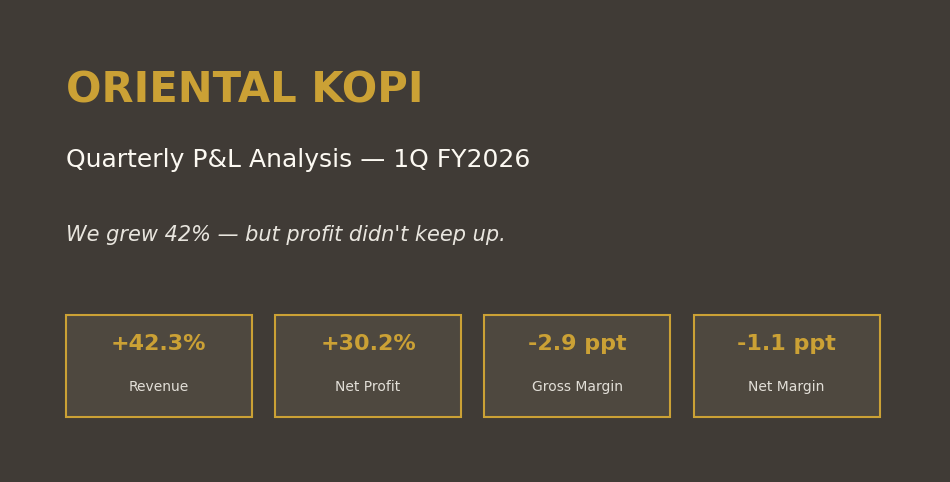
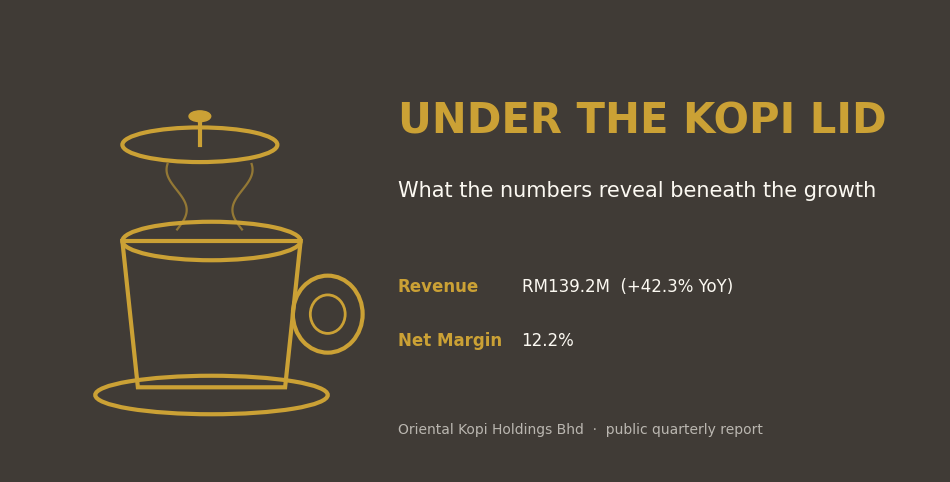
Reframe Oriental Kopi case study to discovery mode; feature on homepage
- Rewrite as neutral discovery story (Under the Kopi Lid): reveal what
  the numbers show, hold interpretation open, no judgment or advice
- Replace recommendations with neutral 'questions the numbers raise'
- New lifting-the-lid cover; retitle across page, homepage card+hero,
  category, search DB, and dashboard index
- Feature on homepage (replaces Where the Money Is) + hero image

diff --git a/case-studies/oriental-kopi-pl-analysis.html b/case-studies/oriental-kopi-pl-analysis.html
@@ -4,7 +4,7 @@
   <meta charset="utf-8"/>
   <meta content="width=device-width, initial-scale=1.0" name="viewport"/>
   <title>
-   Oriental Kopi — Quarterly P&amp;L Analysis | Lee Yih Ven
+   Under the Kopi Lid | Lee Yih Ven
   </title>
   <link href="/data-analyst-portfolio/style.css" rel="stylesheet"/>
  </head>
@@ -69,105 +69,107 @@
      <header>
       <img alt="Cover Image" src="https://raw.githubusercontent.com/lyven81/data-analyst-portfolio/main/images/oriental-kopi-pl-analysis/cover%20image.png"/>
       <h1>
-       Oriental Kopi: We Grew 42% — But Profit Didn't Keep Up
+       Under the Kopi Lid
       </h1>
       <p>
-       A management read of 1Q FY2026 — strong top-line growth, but margins compressed across the board, and the cause is one line on the P&amp;L.
+       What the numbers reveal beneath the growth — a closer look at Oriental Kopi's 1Q FY2026 quarterly results.
       </p>
      </header>
 
      <section>
       <h2>
-       The Bottom Line
+       What We Found
       </h2>
       <p>
-       Oriental Kopi's 1Q FY2026 was a strong growth quarter — revenue up 42% and net profit up 30% — but profit quality slipped: every margin tier compressed, driven mainly by cost of sales rising from 74% to 77% of revenue. Growth is healthy. Defending margin is now the priority.
+       Oriental Kopi grew revenue 42% in 1Q FY2026. Lift the lid on the statement, though, and a second pattern sits beneath the headline: profit grew more slowly than revenue, and margins narrowed at every level. This case study walks through where, in the numbers, that happened — and leaves the why to those who know the business.
       </p>
      </section>
 
      <section>
       <h2>
-       The Question: Did 42% growth make us more profitable?
+       What's Behind the 42%?
       </h2>
       <p>
-       Oriental Kopi Holdings Bhd — a Malaysian kopitiam café chain and packaged-food distributor listed on Bursa Malaysia — posted headline revenue growth of 42% in 1Q FY2026. For management, the headline number isn't the question. The question is sharper: did that growth convert into profit, or did we buy revenue at the expense of margin?
+       Oriental Kopi Holdings Bhd is a Malaysian kopitiam café chain and packaged-food distributor listed on Bursa Malaysia. Its 1Q FY2026 report leads with a 42% jump in revenue. That number is the headline; this analysis is about what sits underneath it.
       </p>
       <p>
-       This analysis reads the quarterly P&amp;L the way a finance team would — vertical analysis (each line as a share of revenue), horizontal analysis (year-on-year), and a segment breakdown — to answer it.
+       Reading the quarterly P&amp;L three ways — each line as a share of revenue, each line against a year ago, and the picture by business segment — surfaces a pattern the headline alone doesn't show. The aim here isn't to grade the quarter, only to make what's under the lid visible.
       </p>
      </section>
 
      <section>
       <h2>
-       1. The Result: growth outpaced profit
+       1. The Result: growth, at two speeds
       </h2>
       <img alt="Chart 1 - Revenue Growth vs Profit Growth" src="https://raw.githubusercontent.com/lyven81/data-analyst-portfolio/main/images/oriental-kopi-pl-analysis/chart%201.png"/>
       <p>
-       Revenue rose 42.3% (RM97.8M to RM139.2M) and profit after tax rose 30.2% (RM13.1M to RM17.0M). Both up strongly — but the 12-point gap between revenue growth and profit growth is the first signal that something happened to margin on the way down the statement.
+       Revenue rose 42.3% (RM97.8M to RM139.2M). Profit after tax rose too, but by less — 30.2% (RM13.1M to RM17.0M). Both moved up; they didn't move together. The 12-point gap between the two growth rates is the first thread to pull.
       </p>
      </section>
 
      <section>
       <h2>
-       2. The Quality Check: every margin compressed
+       2. The Margins: a shift at every level
       </h2>
       <img alt="Chart 2 - Margins FY25 vs FY26" src="https://raw.githubusercontent.com/lyven81/data-analyst-portfolio/main/images/oriental-kopi-pl-analysis/chart%202.png"/>
       <p>
-       It wasn't one line — profitability fell at every level of the P&amp;L. Gross margin slipped from 25.9% to 23.0% (−2.9 ppt), operating margin from 18.6% to 17.1% (−1.6 ppt), and net margin from 13.4% to 12.2% (−1.1 ppt).
+       Follow that thread to the margins and the same gap appears at every level of the statement. Gross margin moved from 25.9% to 23.0%, operating margin from 18.6% to 17.1%, and net margin from 13.4% to 12.2%.
       </p>
       <p>
-       Because the compression starts at the gross line and carries all the way down, the root cause sits at the top of the statement — not in financing or tax.
+       The narrowing isn't isolated to one line near the bottom — it begins at the gross line and carries all the way down, which points to where in the statement the change starts.
       </p>
      </section>
 
      <section>
       <h2>
-       3. The Cause: cost of sales is the leak
+       3. Where the Margin Moved
       </h2>
       <img alt="Chart 3 - Cost of Sales as % of Revenue" src="https://raw.githubusercontent.com/lyven81/data-analyst-portfolio/main/images/oriental-kopi-pl-analysis/chart%203.png"/>
       <p>
-       Vertical analysis pinpoints it: cost of sales rose from 74.1% to 77.0% of revenue — it grew faster (+47.8%) than revenue did (+42.3%). That single 2.9-point shift is the largest driver of the margin squeeze, and it explains almost the entire drop in gross margin.
+       Vertical analysis shows where it begins. Cost of sales took 74.1% of every revenue ringgit a year ago; this quarter it took 77.0%. It grew 47.8% while revenue grew 42.3%. That single shift accounts for almost the entire move in gross margin.
       </p>
       <p>
-       Operating expenses stayed broadly in line as a share of revenue, so this is a cost-of-goods story, not an overhead story.
+       Operating expenses, by contrast, held roughly steady as a share of revenue. So the change sits in cost of goods, not in overhead.
       </p>
      </section>
 
      <section>
       <h2>
-       4. The Shape of Growth: the mix is shifting
+       4. The Segments: where growth came from
       </h2>
       <img alt="Chart 4 - Segment Growth vs Margin Change" src="https://raw.githubusercontent.com/lyven81/data-analyst-portfolio/main/images/oriental-kopi-pl-analysis/chart%204.png"/>
       <p>
-       The Cafe Chain is still ~90% of revenue and grew 37.0%, with margin slipping 24.3% to 21.2%. Distribution &amp; Retail (Packaged) is the growth engine — up 125.6% — but its margin fell sharply, 53.3% to 42.3%. Others grew 77.9%, margin 16.1% to 15.0%.
+       Split by business line, growth came from everywhere — and so did the margin shift. The Cafe Chain, still about 90% of revenue, grew 37.0% with margin easing from 24.3% to 21.2%. Distribution &amp; Retail (Packaged) more than doubled, up 125.6%, with margin moving from 53.3% to 42.3%. Others grew 77.9%, margin from 16.1% to 15.0%.
       </p>
       <p>
-       The fast-growing distribution business is gaining share, which shifts the group mix — but margin pressure is broad-based, not just a mix effect. Every segment is converting less of its revenue into profit than a year ago.
+       The mix is tilting toward distribution, and every segment converted a little less of its revenue into profit than the year before.
       </p>
      </section>
 
      <section>
       <h2>
-       The Verdict: a growth quarter, not a margin quarter
+       What the Numbers Reveal
       </h2>
       <p>
-       Across all four views the message is consistent: revenue rose 42% and profit 30%, but roughly three points of every revenue dollar leaked at the cost-of-sales line before reaching the bottom — pulling gross, operating, and net margin down together, across every segment. For a business compounding this fast, the risk isn't that growth runs out; it's that each new quarter of growth earns less. The priority is margin defense, not more top line — and the fix starts at the cost-of-sales line, where the leak is.
+       Put together, the statement tells one clear factual story: this was a quarter of fast revenue growth in which margins narrowed across the board, with the change concentrated in cost of sales.
+      </p>
+      <p>
+       What the numbers don't tell us is why. A three-point rise in cost of sales could be a deliberate move — pricing to win share, absorbing input costs, or scaling a lower-margin distribution line on purpose. It could equally be cost pressure the business is already working to recover. The P&amp;L shows the what and the where with precision; the why belongs to the people running the company. This analysis stops at the lid lifted — the interpretation is the reader's.
       </p>
      </section>
 
      <section>
       <h2>
-       What Management Should Do
+       Questions the Numbers Raise
       </h2>
       <p>
-       Protect gross margin first. The 2.9-ppt rise in cost of sales is the single biggest profit leak — investigate input costs, pricing, and product mix before chasing more top-line growth. Recovering roughly 3 ppt of cost of sales restores net margin to last year's level.
+       For a reader looking under the hood, a few questions follow naturally from the figures — not as conclusions, but as the threads the data leaves dangling:
       </p>
-      <p>
-       Confirm the growth engine is accretive. Distribution &amp; Retail is doubling (+126%) but at an 11-point lower margin (53% to 42%) — verify it still adds to group profit as it scales, or the mix shift will keep dragging blended margin down even as revenue climbs.
-      </p>
-      <p>
-       Pair every growth target with a margin guardrail. This quarter, revenue growth masked a profitability slip. Track margin quality alongside growth, not after it.
-      </p>
+      <ul>
+       <li>Is the rise in cost of sales a deliberate trade — buying revenue and market share — or unplanned cost pressure?</li>
+       <li>Distribution &amp; Retail is the fastest-growing line at the lowest and falling margin; is that mix shift meant to continue?</li>
+       <li>The three-quarter view shows margins dipped mid-year and partly recovered — is the latest quarter a step back toward the prior level, or a new baseline?</li>
+      </ul>
      </section>
 
      <section>

diff --git a/index.html b/index.html
@@ -182,7 +182,7 @@
             left: 0;
             width: 100%;
             height: 100%;
-            background-image: url('images/not-all-homes-are-equal/cover image.jpeg');
+            background-image: url('images/oriental-kopi-pl-analysis/cover image.png');
             background-size: cover;
             background-position: center;
             filter: brightness(0.4);
@@ -869,17 +869,17 @@
                     </div>
                 </div>
 
-                <!-- Where the Money Is -->
+                <!-- Under the Kopi Lid -->
                 <div class="grid-card segmentation">
-                    <div class="grid-background" style="background-image: url('images/where-the-money-is/cover image.png');"></div>
+                    <div class="grid-background" style="background-image: url('images/oriental-kopi-pl-analysis/cover image.png');"></div>
                     <div class="grid-overlay">
-                        <div class="grid-category">Segmentation Analysis</div>
-                        <h3 class="grid-title">Where the Money Is</h3>
-                        <p class="grid-description">Spot Samsung's top markets, products, and channels.</p>
+                        <div class="grid-category">Time Series Analysis</div>
+                        <h3 class="grid-title">Under the Kopi Lid</h3>
+                        <p class="grid-description">What the numbers reveal beneath Oriental Kopi's 42% growth.</p>
                         <div class="grid-buttons">
-                            <a href="/data-analyst-portfolio/case-studies/where-the-money-is.html" class="grid-btn">Read More</a>
-                            <a href="/data-analyst-portfolio/dashboards/where-the-money-is-dashboard.html" class="grid-btn">Dashboard</a>
-                            <a href="/data-analyst-portfolio/agentic_workflow/where-the-money-is.html" class="grid-btn">AI Assistant</a>
+                            <a href="/data-analyst-portfolio/case-studies/oriental-kopi-pl-analysis.html" class="grid-btn">Read More</a>
+                            <a href="/data-analyst-portfolio/dashboards/oriental-kopi-pl-analysis-dashboard.html" class="grid-btn">Dashboard</a>
+                            <a href="#" class="grid-btn">AI Assistant</a>
                         </div>
                     </div>
                 </div>
@@ -911,8 +911,8 @@
         const caseStudies = [
             // Time Series Analysis
             {
-                title: "Oriental Kopi Quarterly P&L",
-                description: "See why revenue grew but margins fell.",
+                title: "Under the Kopi Lid",
+                description: "What the numbers reveal beneath Oriental Kopi's growth.",
                 caseStudyUrl: "/data-analyst-portfolio/case-studies/oriental-kopi-pl-analysis.html",
                 dashboardUrl: "/data-analyst-portfolio/dashboards/oriental-kopi-pl-analysis-dashboard.html",
                 category: "Time Series Analysis"

diff --git a/interactive-dashboard.html b/interactive-dashboard.html
@@ -467,8 +467,8 @@ const caseStudies = [
     },
     // Interactive Dashboards
     {
-        title: "Oriental Kopi Quarterly P&L",
-        description: "See why revenue grew but margins fell",
+        title: "Under the Kopi Lid",
+        description: "What the numbers reveal beneath Oriental Kopi's growth",
         caseStudyUrl: "/data-analyst-portfolio/case-studies/oriental-kopi-pl-analysis.html",
         dashboardUrl: "/data-analyst-portfolio/dashboards/oriental-kopi-pl-analysis-dashboard.html",
         category: "Interactive Dashboards"

diff --git a/time-series-analysis.html b/time-series-analysis.html
@@ -59,8 +59,8 @@ const caseStudies = [
         category: "Time Series Analysis"
     },
     {
-        title: "Oriental Kopi Quarterly P&L",
-        description: "See why revenue grew but margins fell",
+        title: "Under the Kopi Lid",
+        description: "What the numbers reveal beneath Oriental Kopi's growth",
         caseStudyUrl: "/data-analyst-portfolio/case-studies/oriental-kopi-pl-analysis.html",
         dashboardUrl: "/data-analyst-portfolio/dashboards/oriental-kopi-pl-analysis-dashboard.html",
         category: "Time Series Analysis"